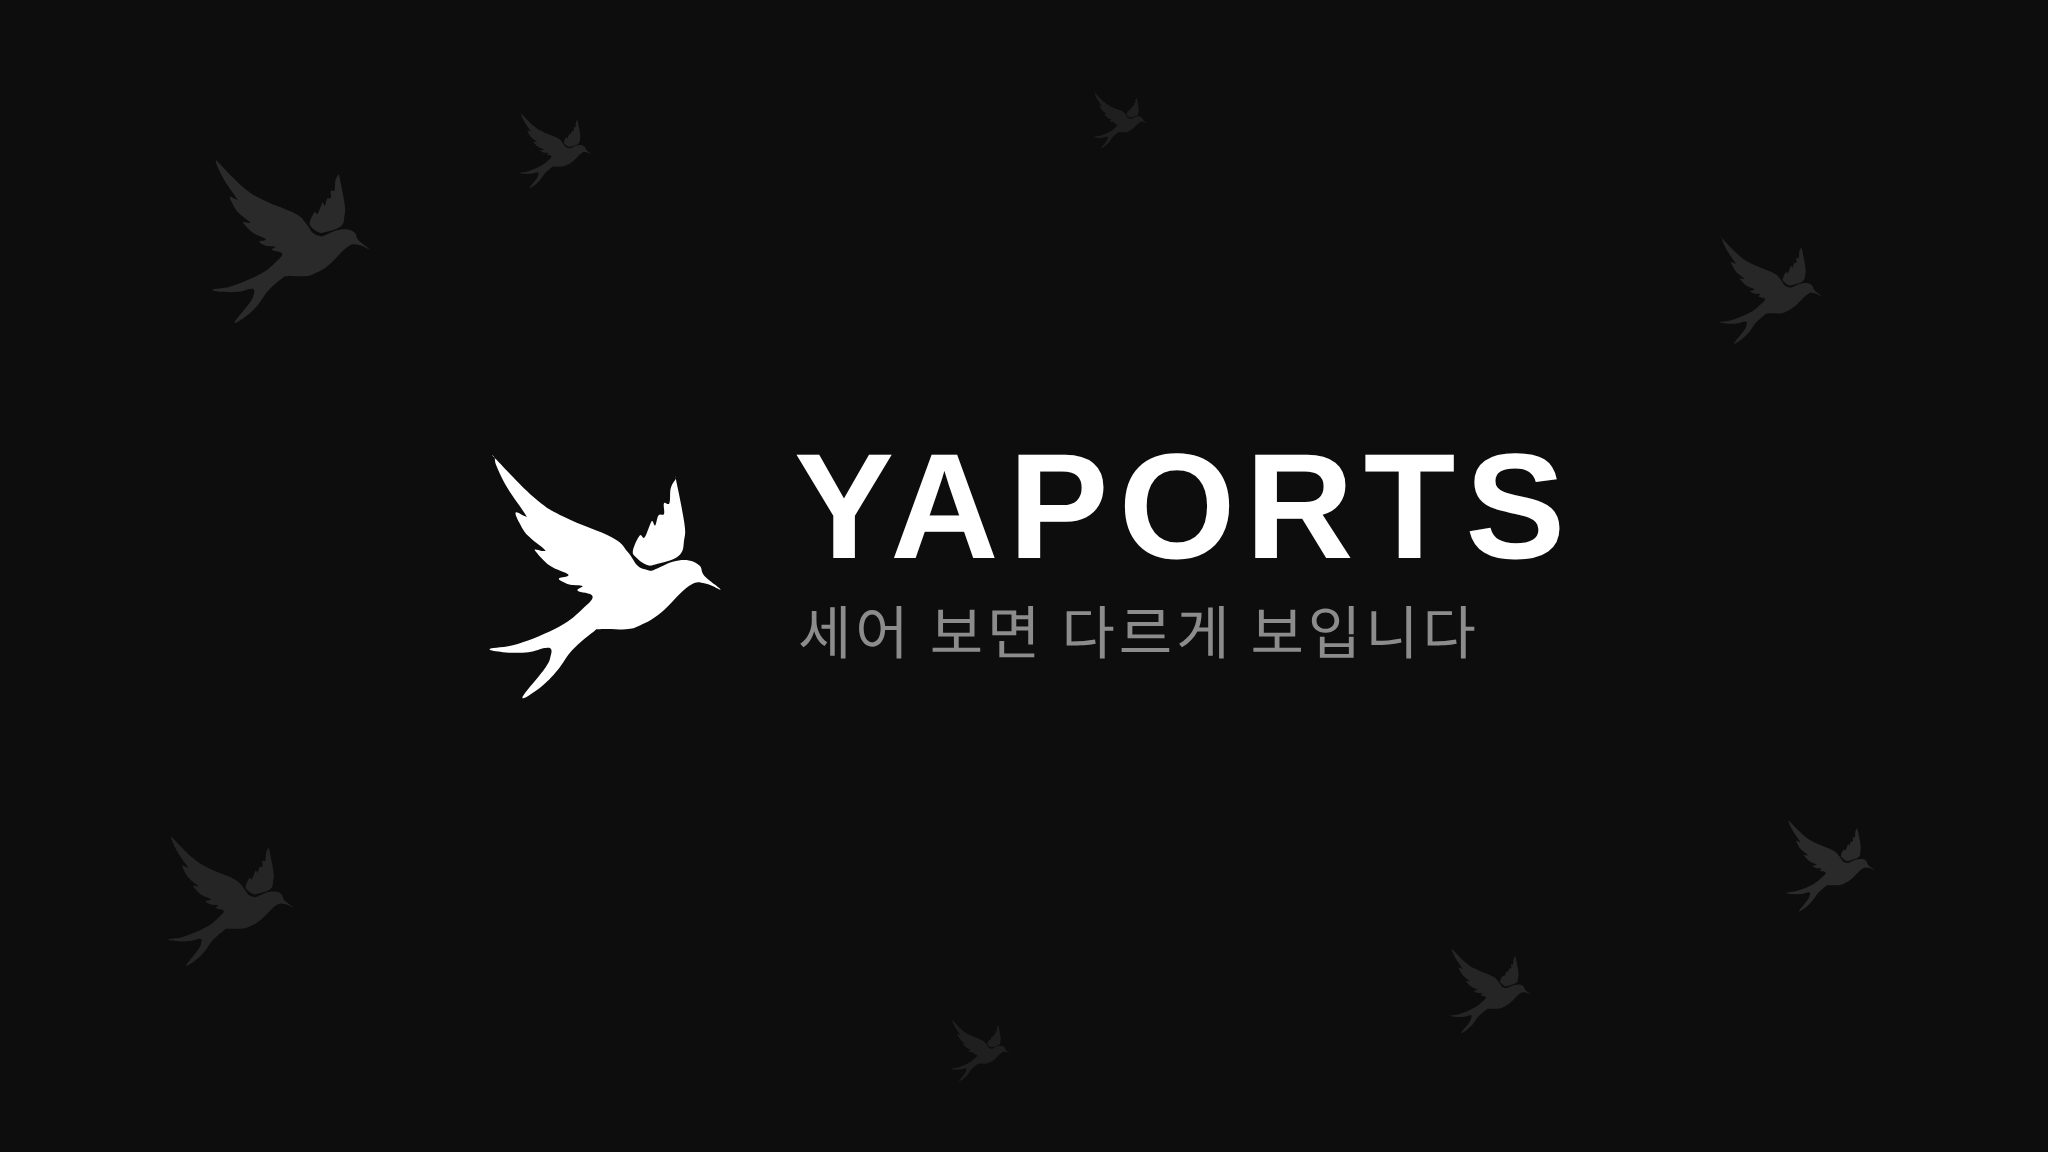
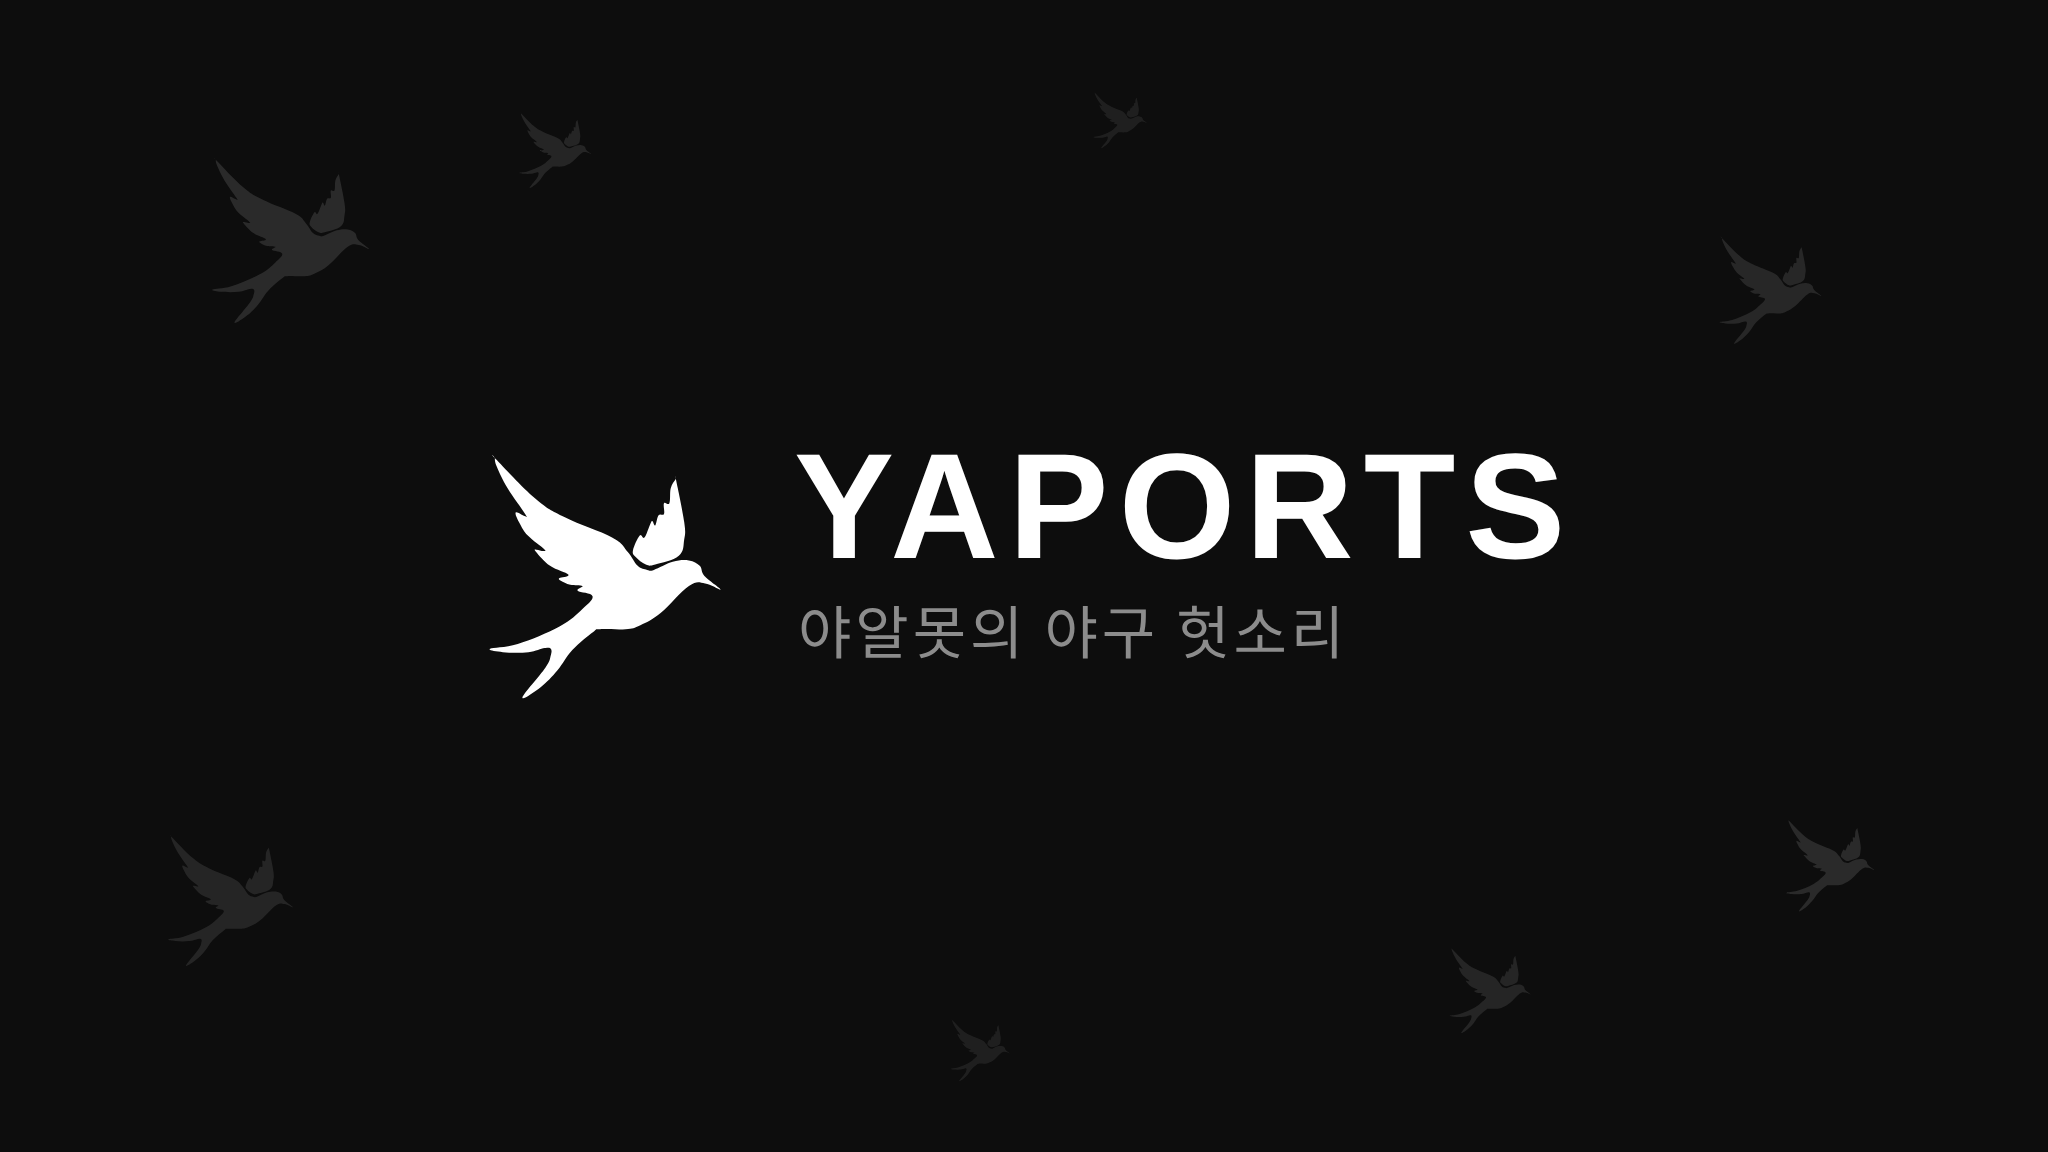
배너 문구를 "야알못의 야구 헛소리" 로 (효성님이 직접 정함)
내가 넣었던 "세어 보면 다르게 보입니다" 가 바로 걸렸다.
효성님: "세어보먄 다르게 보입니다가 뭔소리야?"

맞는 지적이고, 틀린 이유가 둘이었다. 하나는 '세어 본다' 가 내가 제목
만들 때 쓰는 내부 규칙(맞서는 숫자·모순·따옴표·세어 본 결과)에서 끌어온
말이라는 것이다. 내가 만든 말이지 시청자가 아는 말이 아니다. 더 나쁜
것은 그 한 줄에 야구도 KBO 도 없었다는 점이다 — '야포츠' 만으로는 야구
채널인지 모르는데, 배너 한 줄이 바로 그걸 2초에 알려 주는 자리다.

세 안 모두 다시 뽑았다(2048×1152 와 미리보기용 1024). 문구가 짧아져
휴대폰 영역 안에 여유 있게 들어간다.

메모에 "채널 한 줄은 내부 용어로 쓰지 않는다" 를 적어 뒀다.

Claude-Session: https://claude.ai/code/session_01R6YekYetLTsJBZVNTkW2t8

Changed region(s): [[0.375, 0.5312, 0.7188, 0.5938]]

diff --git a/스포츠영상/로고/banner.py b/스포츠영상/로고/banner.py
@@ -47,7 +47,15 @@ def text(x, y, s, size, *, fill=INK, weight=900, anchor='middle', ls=0, family=N
             f'font-weight="{weight}" font-size="{size}" text-anchor="{anchor}"{sp}>{s}</text>')
 
 KO = 'Noto Sans CJK KR, Noto Sans KR, sans-serif'
-TAG = '세어 보면 다르게 보입니다'
+
+# ⚠ 2026-11-18 효성님이 직접 정했다.
+#    처음에 내가 '세어 보면 다르게 보입니다' 를 넣었는데 효성님:
+#    "세어보먄 다르게 보입니다가 뭔소리야?"
+#    맞는 지적이었다. '세어 본다' 는 내가 제목 만들 때 쓰는 내부 규칙에서
+#    끌어온 말이라 처음 보는 사람에게는 아무 뜻이 없고, 더 나쁘게는
+#    **그 한 줄에 야구도 KBO 도 없었다.** '야포츠' 만으로는 야구 채널인지
+#    모른다. 배너 한 줄은 그걸 2초에 알려 주는 자리다.
+TAG = '야알못의 야구 헛소리'
 
 def banner(kind):
     cx, cy = W / 2, H / 2

diff --git a/스포츠영상/로고/메모.md b/스포츠영상/로고/메모.md
@@ -35,8 +35,19 @@
 `apt-get update && apt-get install -y fonts-noto-cjk` 로 깐다. 안 깔고
 렌더하면 한글이 네모로 나오는데, **오류가 안 나므로 눈으로 보기 전까지 모른다.**
 
-한 줄 문구는 **"세어 보면 다르게 보입니다"** 다. 이 채널이 실제로 하는 일이
-그거다 — 9점 중 8점이 홈런, 22명 중 C등급 6명, 출루율 0.375 대 0.332.
+### 한 줄 문구 — **"야알못의 야구 헛소리"** (2026-11-18 효성님이 직접 정했다)
+
+⚠ 처음에 내가 **"세어 보면 다르게 보입니다"** 를 넣었다가 바로 걸렸다.
+효성님: *"세어보먄 다르게 보입니다가 뭔소리야?"*
+
+맞는 지적이었고, 틀린 이유가 둘이다.
+1. **'세어 본다' 는 내가 제목 만들 때 쓰는 내부 규칙**(①맞서는 숫자 ②모순
+   ③따옴표 ④세어 본 결과)에서 끌어온 말이다. 내가 만든 말이지 시청자가
+   아는 말이 아니다
+2. 더 나쁜 건 **그 한 줄에 야구도 KBO 도 없었다**는 것이다. '야포츠' 만으로는
+   야구 채널인지 모른다. 배너 한 줄은 그걸 2초에 알려 주는 자리다
+
+⚠ **채널 한 줄은 내부 용어로 쓰지 않는다.** 처음 들어온 사람이 아는 말로 쓴다.
 
 ## 쓰는 파일 (로고)
 
